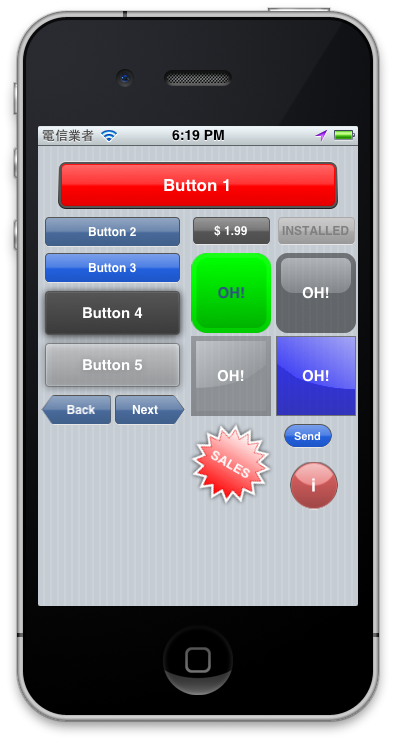
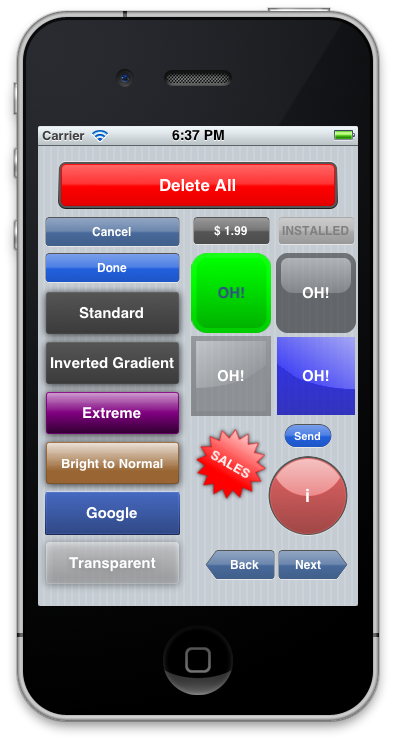
add one more border type, cleanup sample code to show more examples

diff --git a/UIGlossyButton/UIGlossyButton.m b/UIGlossyButton/UIGlossyButton.m
@@ -73,7 +73,7 @@ static void RetinaAwareUIGraphicsBeginImageContext(CGSize size) {
 
 // main draw routine, not including stroke the outer path
 - (void) drawTintColorButton : (CGContextRef)context tintColor : (UIColor *) tintColor isSelected : (BOOL) isSelected;
-- (void) strokeButton : (CGContextRef)context color : (UIColor *)color;
+- (void) strokeButton : (CGContextRef)context color : (UIColor *)color isSelected : (BOOL) isSelected;
 
 @end
 
@@ -87,6 +87,7 @@ static void RetinaAwareUIGraphicsBeginImageContext(CGSize size) {
 @synthesize strokeType = _strokeType, extraShadingType = _extraShadingType;
 @synthesize backgroundOpacity = _backgroundOpacity;
 @synthesize buttonInsets = _buttonInsets;
+@synthesize invertGraidentOnSelected = _invertGraidentOnSelected;
 #pragma lifecycle
 
 - (CGSize)sizeThatFits:(CGSize)size {
@@ -124,9 +125,9 @@ static void RetinaAwareUIGraphicsBeginImageContext(CGSize size) {
     [super dealloc];
 }
 
-#pragma -
+#pragma mark - 
 
-
+/* graident that will be used to fill on top of the button for 3D effect */
 - (void) setGradientType : (UIGlossyButtonGradientType) type {
 	switch (type) {
 		case kUIGlossyButtonGradientTypeLinearSmoothStandard:
@@ -147,10 +148,11 @@ static void RetinaAwareUIGraphicsBeginImageContext(CGSize size) {
 			break;
 		case kUIGlossyButtonGradientTypeLinearSmoothBrightToNormal:
 		{
-			static const CGFloat g0[] = {1.0, 1.0, 0.5, 1.0};
+			static const CGFloat g0[] = {0.9, 1.0, 0.5, 1.0, 0.5, 1.0};
+			static const CGFloat l0[] = {0.0, 0.7, 1.0};
 			background_gradient = g0;
-			locations = nil;
-			numberOfColorsInGradient = 2;
+			locations = l0;
+			numberOfColorsInGradient = 3;
 		}
 			break;
 		case kUIGlossyButtonGradientTypeLinearGlossyStandard:
@@ -201,6 +203,8 @@ static void RetinaAwareUIGraphicsBeginImageContext(CGSize size) {
 	}
 	
 	CGContextRef ref = UIGraphicsGetCurrentContext();
+    
+    BOOL isSelected = [self isHighlighted];
 	CGContextSaveGState(ref);
 	if (_buttonBorderWidth>0.0) {
 		UIColor *color;
@@ -210,9 +214,9 @@ static void RetinaAwareUIGraphicsBeginImageContext(CGSize size) {
 			if (color==nil) color = _borderColor;
 		}
 		if (color == nil) color = [UIColor darkGrayColor];
-		[self strokeButton : ref color : color];
+		[self strokeButton : ref color : color isSelected: isSelected];
 	}
-  	[self drawTintColorButton : ref tintColor : color isSelected: [self isHighlighted]];
+  	[self drawTintColorButton : ref tintColor : color isSelected: isSelected];
 	CGContextRestoreGState(ref);
 	
 	if (drawOnImage) {
@@ -238,7 +242,7 @@ static void RetinaAwareUIGraphicsBeginImageContext(CGSize size) {
 
 #pragma -
 
-- (void) strokeButton : (CGContextRef)context color : (UIColor *)color {
+- (void) strokeButton : (CGContextRef)context color : (UIColor *)color isSelected : (BOOL) isSelected {
 	switch (_strokeType) {
         case kUIGlossyButtonStrokeTypeNone:
             break;
@@ -290,6 +294,37 @@ static void RetinaAwareUIGraphicsBeginImageContext(CGSize size) {
 			CGContextFillPath(context);
 
 			CGContextRestoreGState(context);
+		}
+			break;
+		case kUIGlossyButtonStrokeTypeBevelUp:
+		{
+			CGRect rect = self.bounds;
+			CGColorSpaceRef colorSpace = CGColorSpaceCreateDeviceGray();
+			const CGFloat *strokeComponents;
+            const CGFloat *l0;
+            if (_invertGraidentOnSelected && isSelected) {
+                const CGFloat s[] = {0.2, 1, 0.5, 1, 0.6, 1};
+                const CGFloat l[] = {0.0, 0.1, 1.0};
+                strokeComponents = s; l0 = l;
+            }
+            else {
+                const CGFloat s[] = {0.9, 1, 0.5, 1, 0.2, 1};
+                const CGFloat l[] = {0.0, 0.1, 1.0};
+                strokeComponents = s; l0 = l;
+            }
+			
+			CGContextAddPath(context, [self pathForButton : 0.0f].CGPath);
+			CGContextClip(context);
+			
+			CGGradientRef strokeGradient = CGGradientCreateWithColorComponents(colorSpace, strokeComponents, l0, 3);	
+            CGContextDrawLinearGradient(context, strokeGradient, CGPointMake(0, CGRectGetMinY(rect)), CGPointMake(0,CGRectGetMaxY(rect)), 0);
+			CGGradientRelease(strokeGradient);
+			CGColorSpaceRelease(colorSpace);
+
+            [color set];
+            UIRectFillUsingBlendMode(rect, kCGBlendModeOverlay);
+
+			CGContextFillPath(context);				
 		}
 			break;
 		default:
@@ -362,7 +397,12 @@ static void RetinaAwareUIGraphicsBeginImageContext(CGSize size) {
 	CGContextClip(context);
 	
 	CGGradientRef fillGradient = CGGradientCreateWithColorComponents(colorSpace, background_gradient, locations, numberOfColorsInGradient);	
-	CGContextDrawLinearGradient(context, fillGradient, CGPointMake(0, CGRectGetMinY(fillRect)), CGPointMake(0,CGRectGetMaxY(fillRect)), 0);
+    if (_invertGraidentOnSelected && isSelected) {
+        CGContextDrawLinearGradient(context, fillGradient, CGPointMake(0, CGRectGetMaxY(fillRect)), CGPointMake(0,CGRectGetMinY(fillRect)), 0);    
+    }
+    else {
+        CGContextDrawLinearGradient(context, fillGradient, CGPointMake(0, CGRectGetMinY(fillRect)), CGPointMake(0,CGRectGetMaxY(fillRect)), 0);
+    }
 	CGGradientRelease(fillGradient);
 	
 	if (_extraShadingType != kUIGlossyButtonExtraShadingTypeNone) {

diff --git a/UIGlossyButton/TestButtonViewController.m b/UIGlossyButton/TestButtonViewController.m
@@ -54,13 +54,34 @@
 	b = (UIGlossyButton*) [self.view viewWithTag: 1003];
 	[b setNavigationButtonWithColor:[UIColor doneButtonColor]];
 
-	// non iPhone-like but nice buttons
+	// All non iPhone-like but nice buttons
 	b = (UIGlossyButton*) [self.view viewWithTag: 1004];
 	[b useWhiteLabel: YES]; b.tintColor = [UIColor darkGrayColor];
 	[b setShadow:[UIColor blackColor] opacity:0.8 offset:CGSizeMake(0, 1) blurRadius: 4];
 
+    b = (UIGlossyButton*) [self.view viewWithTag: 1017];
+	[b useWhiteLabel: YES]; b.tintColor = [UIColor darkGrayColor];
+	[b setShadow:[UIColor blackColor] opacity:0.8 offset:CGSizeMake(0, 1) blurRadius: 4];
+    b.invertGraidentOnSelected = YES;
+
+    b = (UIGlossyButton*) [self.view viewWithTag: 1018];
+	[b useWhiteLabel: YES]; b.tintColor = [UIColor purpleColor];
+	[b setShadow:[UIColor blackColor] opacity:0.8 offset:CGSizeMake(0, 1) blurRadius: 4];
+    [b setGradientType:kUIGlossyButtonGradientTypeLinearSmoothExtreme];
+
+    b = (UIGlossyButton*) [self.view viewWithTag: 1019];
+	[b useWhiteLabel: YES]; b.tintColor = [UIColor brownColor];
+	[b setShadow:[UIColor blackColor] opacity:0.8 offset:CGSizeMake(0, 1) blurRadius: 4];
+    [b setGradientType:kUIGlossyButtonGradientTypeLinearSmoothBrightToNormal];
+
+    b = (UIGlossyButton*) [self.view viewWithTag: 1020];
+	[b useWhiteLabel: YES];
+    b.buttonCornerRadius = 2.0; b.buttonBorderWidth = 1.0f;
+	[b setStrokeType: kUIGlossyButtonStrokeTypeBevelUp];
+    b.tintColor = b.borderColor = [UIColor colorWithRed:70.0f/255.0f green:105.0f/255.0f blue:192.0f/255.0f alpha:1.0f];
+    
 	b = (UIGlossyButton*) [self.view viewWithTag: 1005];
-	[b useWhiteLabel: NO]; b.tintColor = [UIColor whiteColor];
+	[b useWhiteLabel: YES]; b.tintColor = [UIColor whiteColor];
 	b.backgroundOpacity = 0.5;
 	[b setShadow:[UIColor blackColor] opacity:0.8 offset:CGSizeMake(0, 1) blurRadius: 4];
 	
@@ -72,7 +93,7 @@
 	b.enabled = NO;
 	[b setNavigationButtonWithColor:[UIColor darkGrayColor]];
 	
-	// different extra shading
+	// different extra shading (square one in the samples)
 	b = (UIGlossyButton*) [self.view viewWithTag: 1008];
 	b.tintColor = [UIColor greenColor];
 	b.innerBorderWidth = 5.0f;
@@ -134,6 +155,8 @@
 	}
     
     /* for button using kUIGlossyButtonStrokeTypeInnerBevelDown, buttonBorderWidth better <= 4.0f */
+    
+    /* SMS Send Button */
 	b = (UIGlossyButton*) [self.view viewWithTag: 1015];
 	b.tintColor = [UIColor doneButtonColor];
 	[b useWhiteLabel: YES];
@@ -143,6 +166,7 @@
 	[b setGradientType: kUIGlossyButtonGradientTypeLinearGlossyStandard];
 	[b setStrokeType: kUIGlossyButtonStrokeTypeInnerBevelDown];
 
+    /* big circle button */
 	b = (UIGlossyButton*) [self.view viewWithTag: 1016];
 	b.tintColor = [UIColor colorWithRed:0.9 green:0.4 blue:0.4 alpha:1.0];
 	[b useWhiteLabel: YES];

diff --git a/UIGlossyButton/UIGlossyButton.h b/UIGlossyButton/UIGlossyButton.h
@@ -25,9 +25,9 @@
 typedef enum _UIGlossyButtonGradientType {
 	kUIGlossyButtonGradientTypeLinearSmoothStandard = 0,	// general vertical linear gradient, normal to little dark
 	kUIGlossyButtonGradientTypeLinearGlossyStandard,		// iOS like glossy effect
-	kUIGlossyButtonGradientTypeLinearSmoothExtreme,	// Very bright to very dim
+	kUIGlossyButtonGradientTypeLinearSmoothExtreme,         // Very bright to very dim
 	kUIGlossyButtonGradientTypeLinearSmoothBrightToNormal,	// very bright to normal
-	kUIGlossyButtonGradientTypeSolid,				// plain solid    
+	kUIGlossyButtonGradientTypeSolid,                       // plain solid  
 } UIGlossyButtonGradientType;
 
 typedef enum _UIGlossyButtonStrokeType{
@@ -35,6 +35,7 @@ typedef enum _UIGlossyButtonStrokeType{
 	kUIGlossyButtonStrokeTypeSolid,	// simple solid color
 	kUIGlossyButtonStrokeTypeInnerBevelDown, // draw bevel down effect (naivagation bar button)
 	kUIGlossyButtonStrokeTypeGradientFrame,	// frame a 1 pixel b/w gradient (default delete button)	
+    kUIGlossyButtonStrokeTypeBevelUp,       // stroke bevel using button color
 } UIGlossyButtonStrokeType;
 
 typedef enum _UIGlossyButtonExtraShadingType {
@@ -66,6 +67,8 @@ typedef enum _UIGlossyButtonExtraShadingType {
     CGFloat _buttonCornerRadius;
     CGFloat _innerBorderWidth;
 	CGFloat _buttonBorderWidth;
+    
+    BOOL    _invertGraidentOnSelected;
 	
 	CGFloat _backgroundOpacity;
     
@@ -85,7 +88,7 @@ typedef enum _UIGlossyButtonExtraShadingType {
 @property (nonatomic, assign) CGFloat innerBorderWidth;	 // inner stroke that fill same color as the tint color, default = 1.0
 @property (nonatomic, assign) UIGlossyButtonStrokeType strokeType;	// outer button border
 @property (nonatomic, assign) UIGlossyButtonExtraShadingType extraShadingType;	// extra shading effect other than gradient
-
+@property (nonatomic, assign) BOOL invertGraidentOnSelected;    // invert the gradient when button down for inner bevel effect, default = NO
 @property (nonatomic, assign) CGFloat backgroundOpacity; // default 1.0, set smaller to draw button in transparent
 
 /* path for the button, default is a round corner rectangle, we can subclass and customize it */
